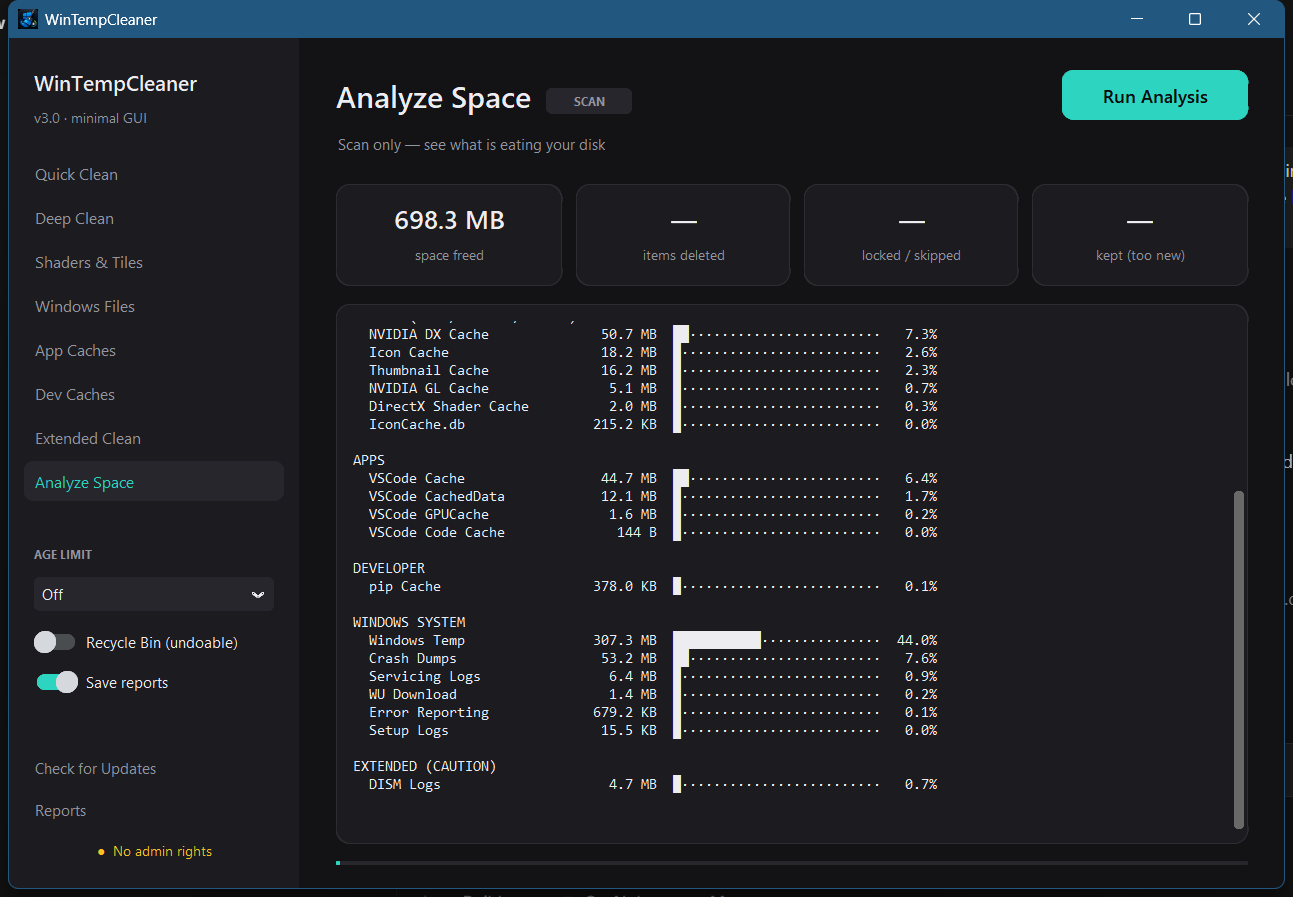
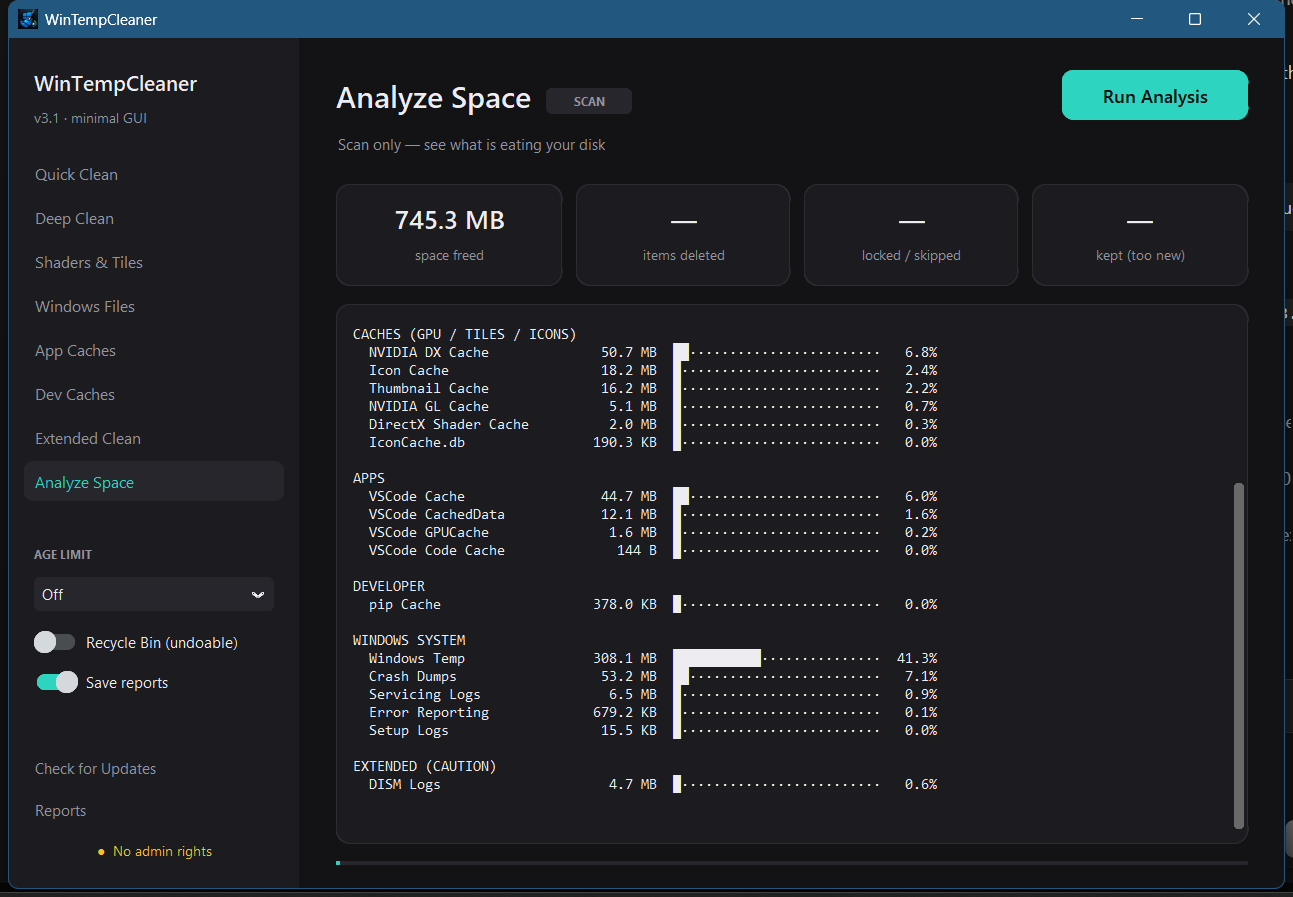
v3.1: README rewrite with screenshots, report viewer fixes, version alignment

diff --git a/temp_cleaner_gui.py b/temp_cleaner_gui.py
@@ -802,7 +802,7 @@ class App(ctk.CTk):
 
         def show(path):
             try:
-                with open(path, encoding="utf-8") as f:
+                with open(path, encoding="utf-8-sig") as f:
                     txt = json.dumps(json.load(f), indent=2, ensure_ascii=False)
             except Exception as exc:
                 txt = f"Could not read report: {exc}"
@@ -817,13 +817,13 @@ class App(ctk.CTk):
                          text_color=MUTED).pack(padx=16, pady=16)
         for p in files:
             try:
-                with open(p, encoding="utf-8") as f:
+                with open(p, encoding="utf-8-sig") as f:
                     d = json.load(f)
                 cap = f"{d.get('mode', '?')} · {tc.fmt_size(d.get('totals', {}).get('bytes_freed', 0))}"
             except Exception:
                 cap = ""
             ctk.CTkButton(left, text=f"{os.path.basename(p)}\n{cap}", anchor="w",
-                          justify="left", height=46, corner_radius=8,
+                          height=46, corner_radius=8,
                           fg_color="transparent", hover_color=SURFACE2,
                           text_color=TEXT, font=("Segoe UI", 11),
                           command=lambda pp=p: show(pp)).pack(fill="x", pady=1)

diff --git a/README.md b/README.md
@@ -3,47 +3,60 @@
 </p>
 
 <h1 align="center">🧹 WinTempCleaner</h1>
-<p align="center"><strong>Portable Windows Temp &amp; Cache Cleaner — CLI + GUI</strong></p>
+
+<p align="center">
+  <strong>A portable Windows temp &amp; cache cleaner — with a minimalistic GUI,<br>a classic CLI, and a one-click self-updater.</strong>
+</p>
+
+<p align="center">
+  <a href="#-screenshots">Screenshots</a> ·
+  <a href="#-cleaning-modes">Modes</a> ·
+  <a href="#-safety-model">Safety</a> ·
+  <a href="#-quick-start">Quick start</a> ·
+  <a href="#-auto-update-gui">Auto-update</a> ·
+  <a href="#-building-from-source">Build</a>
+</p>
 
 <p align="center">
   <img src="https://img.shields.io/badge/platform-Windows%2010%2F11-blue?style=flat-square" alt="Platform">
   <img src="https://img.shields.io/badge/version-v3.1-purple?style=flat-square" alt="Version">
   <img src="https://img.shields.io/badge/license-MIT-green?style=flat-square" alt="License">
   <img src="https://img.shields.io/badge/build-PyInstaller-orange?style=flat-square" alt="Build">
-  <br>
-  <sub>Portable · No dependencies · UAC-aware · Safety-first · Self-updating</sub>
 </p>
 
 ---
 
-## Overview
+## 📖 About
 
 WinTempCleaner sweeps temporary files, browser caches, GPU shader caches, app caches, developer caches and system logs — then shows exactly how much space was freed.
 
-- **Two ways to use it:** a minimalistic **dark GUI** or the classic **interactive CLI**.
-- **One file, no install.** Download the `.exe`, double-click, accept UAC, done.
-- **Self-updating:** the GUI checks GitHub Releases on demand and installs new versions in one click — no background polling, no spam.
-
-<br />
+- **One file, no install** — grab an `.exe` from [Releases](../../releases/latest), double-click, accept UAC, done.
+- **Two interfaces** — a minimalistic dark **GUI** and the classic interactive **CLI**, powered by the same engine.
+- **Self-updating** — the GUI compares against GitHub Releases on demand and installs new versions in place. Checks only happen when *you* click: no background polling, no notifications.
+- **Safety-first** — tiered cleaning modes, age limits, undoable deletions, locked-file tolerance.
 
 <p align="center">
-  <img src="screenshots/main.png" width="820" alt="WinTempCleaner GUI dashboard">
+  <img src="screenshots/main.png" width="820" alt="The WinTempCleaner dashboard: mode sidebar, stat cards, live log">
 </p>
 
 ---
 
-## ✨ Screenshots
+## 🖼 Screenshots
 
-### Analyze Space — see what is eating your disk
+### Analyze Space
+
+A threaded scan across 50+ locations with grouped size bars — nothing is deleted.
 
 <p align="center">
-  <img src="screenshots/analyze.png" width="820" alt="Analyze Space view with size bars">
+  <img src="screenshots/analyze.png" width="820" alt="Analyze Space view showing grouped size bars per location"/>
 </p>
 
-### Built-in updater — one click to update
+### Built-in updater
+
+Release notes, installer size and one-click update — straight from GitHub Releases.
 
 <p align="center">
-  <img src="screenshots/update.png" width="640" alt="Update available dialog with release notes">
+  <img src="screenshots/update.png" width="560" alt="Update available dialog showing version, notes and Download & Install button"/>
 </p>
 
 ---
@@ -52,53 +65,45 @@ WinTempCleaner sweeps temporary files, browser caches, GPU shader caches, app ca
 
 | Mode | Scope | Safety |
 |---|---|---|
-| **Quick Clean** | `%TEMP%`, `C:\Windows\Temp`, Prefetch, Chromium/Firefox caches, Recycle Bin | SAFE |
-| **Deep Clean** | Everything safe: Quick + Shaders & Tiles + Windows Files + App Caches + Dev Caches | SAFE |
-| **Shaders & Tiles** | DirectX / NVIDIA shader caches, thumbnail, icon & font caches | SAFE |
-| **Windows Files** | Windows Update cache, Panther/CBS logs, minidumps, WER reports, CrashDumps, MEMORY.DMP | SAFE |
-| **App Caches** | Discord, Slack, Teams (classic + new), Spotify, VSCode, Cursor, Zoom logs | SAFE |
-| **Dev Caches** | npm, pip, NuGet, Gradle, Go build caches | SAFE |
-| **Extended Clean** | Steam shader caches, LiveKernel / DISM / MoSetup debug logs, junk-file sweep (`*.tmp`, `~$*`, `*.bak`) | ⚠ CAUTION |
-| **Analyze Space** | Scan-only report of 50+ locations — nothing is deleted | SCAN |
-
-The same modes are available in both interfaces:
-
-| GUI | CLI menu |
-|---|---|
-| sidebar buttons | `1`–`9` keys, plus `R` for reports and `Q` to quit |
+| **Quick Clean** | `%TEMP%`, `C:\Windows\Temp`, Prefetch, Chromium & Firefox caches, Recycle Bin | ✅ SAFE |
+| **Deep Clean** | Everything safe — Quick + Shaders & Tiles + Windows Files + App Caches + Dev Caches | ✅ SAFE |
+| **Shaders & Tiles** | DirectX / NVIDIA shader caches, thumbnail, icon & font caches | ✅ SAFE |
+| **Windows Files** | Windows Update cache, Panther/CBS logs, minidumps, WER reports, CrashDumps, MEMORY.DMP | ✅ SAFE |
+| **App Caches** | Discord, Slack, Teams (classic + new), Spotify, VSCode, Cursor, Zoom logs | ✅ SAFE |
+| **Dev Caches** | npm, pip, NuGet, Gradle, Go build caches | ✅ SAFE |
+| **Extended Clean** | Steam shader caches, LiveKernel / DISM / MoSetup debug logs, junk sweep (`*.tmp`, `~$*`, `*.bak`, `*-001.*`) | ⚠ CAUTION |
+| **Analyze Space** | Scan-only report of every tracked location | 🔍 SCAN |
 
 ---
 
 ## 🛡 Safety model
 
-Everything is split into tiers:
+Cleaning is split into two tiers:
 
-- **SAFE** — cleanable any time: temp dirs, browser/app/dev caches, icon & font caches, shader & thumbnail caches, system logs & dumps.
-- **CAUTION** — only via **Extended Clean**, after an explicit confirmation: game shader caches (games recompile on next launch), system debug logs (diagnostics are lost), profile-wide junk-file sweep.
+- **SAFE** — always cleanable: temp dirs, browser/app/dev caches, icon & font caches, shader & thumbnail caches, system logs & dumps.
+- **CAUTION** — reachable only through **Extended Clean** and only after an explicit confirmation. Game shader caches recompile on next launch; debug logs are lost forever.
 
-Two more safety layers apply everywhere:
+On top of that, two protective layers apply to everything:
 
-| Layer | Default | Detail |
+| Layer | Default | What it does |
 |---|---|---|
-| **Age limit** | 1 day | Only files older than *N* days (1 / 3 / 7 / 30) are deleted — in-use and session files are never touched. Set to `Off` to disable. |
-| **Recycle Bin mode** | Off | Deletions become undoable via the Recycle Bin. Note: Quick/Deep then skip emptying the bin so items stay recoverable. |
+| **Age limit** | `1 day` | Only items older than N days (1 / 3 / 7 / 30) are deleted — in-use and session files are never touched. Set `Off` to disable. |
+| **Recycle Bin mode** | `Off` | Deletions go to the Recycle Bin instead of being permanent (undoable). Quick/Deep then skip emptying the bin so you can recover items. |
 
-Locked files (in use by running apps) are skipped and reported — no Explorer popups, no crashes.
+Locked files (held by running apps) are skipped and counted — no Explorer popups, no crashes.
 
 ---
 
 ## 🚀 Quick start
 
-### GUI (recommended)
+1. Head to **[Releases](../../releases/latest)** and download:
+   - `WindowsTempCleanerGUI-V*.exe` — the **GUI** (recommended)
+   - `WindowsTempCleaner-V*.exe` — the **CLI**
+2. Double-click the file and accept the UAC prompt (administrator rights let it reach system locations).
+3. In the GUI pick a mode → press **Start**. In the CLI type a menu number.
 
-1. Grab `WindowsTempCleanerGUI.exe` from [Releases](../../releases/latest).
-2. Double-click → accept the UAC prompt.
-3. Pick a mode on the left, press **Start**.
-
-### CLI
-
-1. Grab `WindowsTempCleaner.exe` from [Releases](../../releases/latest).
-2. Double-click → choose an option from the menu.
+<details>
+<summary><strong>CLI menu</strong></summary>
 
 ```
   Windows Temp / Cache Cleaner
@@ -118,6 +123,8 @@ Locked files (in use by running apps) are skipped and reported — no Explorer p
    Q  Quit
 ```
 
+</details>
+
 ### From source
 
 ```batch
@@ -131,42 +138,28 @@ python temp_cleaner_gui.py
 
 Press **Check for Updates** in the sidebar:
 
-- The app compares your version against the latest GitHub Release.
-- If a newer version exists you get release notes and a **Download & Install** button.
-- The installer swaps itself in place and relaunches — done.
-- Checks happen **only when you click**; there are no background timers or notifications.
-- Running from source instead? The button opens the releases page.
+1. The app queries the latest GitHub Release and compares versions.
+2. If there's something new you get the release notes and a **Download & Install** button.
+3. The new executable replaces the running one in place and the app relaunches.
 
----
+Design guarantees:
 
-## 📊 Example output
-
-```
-== Core Temp & Browser ==
-  [User Temp]       OK  deleted 456 | locked 2 | 31 too new | freed 1.24 GB
-  [Windows Temp]    OK  deleted 89  | locked 0 | freed 45.2 MB
-  [Prefetch]        OK  deleted 124 | locked 0 | freed 8.7 MB
-  [Chrome Cache]    !   deleted 312 | locked 1 | freed 892.1 MB
-  [Edge Cache]      OK  deleted 0   | nothing to clean
-  [Recycle Bin]     OK  emptied
-
-          Cleanup Complete
-  Space freed ................. 2.18 GB
-  Duration .................... 4.2s
-  Items deleted ............... 2,185
-```
-
-Every run can save CSV + JSON reports to `Reports/` (viewable inside both apps).
+- **On demand only** — checks never run in the background; no timers, no toasts.
+- **Extended timeouts + retries** — downloads survive slow or flaky connections (300 s socket timeout, 3 attempts).
+- **Safe swap** — the running exe is renamed `.old` before the replacement moves in; failed installs roll back automatically.
+- **Source installs** — if you run from source, the button simply opens the releases page.
 
 ---
 
 ## 📦 Requirements
 
-| What | Detail |
+| | |
 |---|---|
 | OS | Windows 10 / 11 (x64) |
-| Permission | Administrator rights (auto-prompted via UAC) |
-| From source only | Python 3.10+, `customtkinter`, `rich` |
+| Permissions | Administrator (auto-prompted via UAC) |
+| Source only | Python 3.10+, [`customtkinter`](https://github.com/TomSchimansky/CustomTkinter), [`rich`](https://github.com/Textualize/rich) |
+
+---
 
 ## 🔨 Building from source
 
@@ -199,18 +192,16 @@ pyinstaller --onefile --noconsole --uac-admin --icon "Icon.ico" ^
 > The `--exclude-module` flags stop PyInstaller from bundling unrelated packages
 > installed in your global Python environment (~80 MB → ~17 MB).
 
+---
+
 ## 🗂 Files created at runtime
 
-| File / Folder | Purpose |
+| Path | Purpose |
 |---|---|
-| `cleaner_config.ini` | Persisted options (age limit, recycle bin mode, auto-reports) |
-| `Reports/` | CSV + JSON reports for every cleanup run |
-| `cleaner_error.log` | Written only on unexpected crashes (CLI) |
+| `cleaner_config.ini` | Persisted options — age limit, Recycle Bin mode, auto-reports |
+| `Reports/*.csv|.json` | Per-run cleanup reports (viewable inside both apps) |
+| `cleaner_error.log` | Written only when the CLI crashes unexpectedly |
 
 ## 📄 License
 
-Licensed under the MIT License — see [LICENSE](LICENSE).
-
----
-
-<p align="center"><sub>Made with Python, CustomTkinter, Rich, and PyInstaller.</sub></p>
+[MIT](LICENSE) — free to use, modify and ship.
